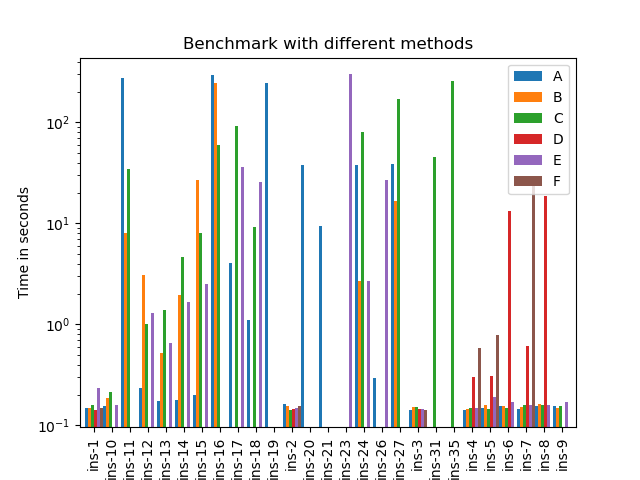
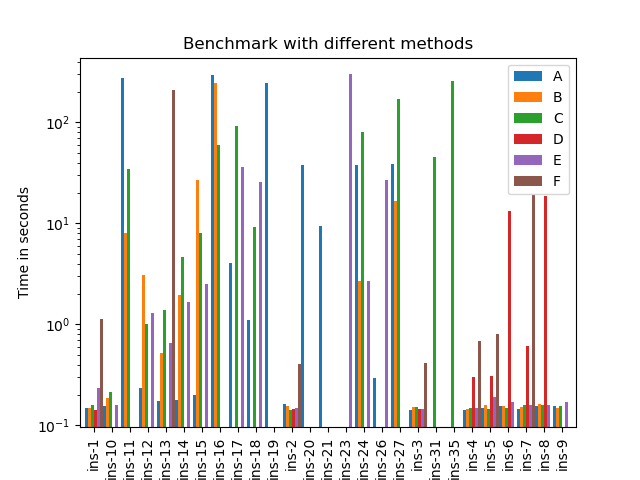
Adding bar chart concerning final model to the report

Changed region(s): [[0.25, 0.1875, 0.2812, 0.875], [0.1562, 0.6562, 0.1875, 0.8438], [0.6562, 0.75, 0.6875, 0.8438]]

diff --git a/utils/show_benchmarks.py b/utils/show_benchmarks.py
@@ -44,9 +44,10 @@ def show_histogram(df, title, x_label, y_label):
 
 
 def main():
-    column_names = ['final', 'dual', 'rotation']
-    directories = ["../CP/out/final_domWdeg_min_no_restart", "../CP/out/symmetries",
-                   "../CP/out/rotation_domWdeg_min_no_restart"]
+    column_names = ['A', 'B', 'C', 'D', 'E', 'F']
+    directories = ["../CP/out/final_domWdeg_min_no_restart", "../CP/out/final_domWdeg_random_linear",
+                   "../CP/out/final_domWdeg_random_luby", "../CP/out/final_domWdeg_random_no_restart",
+                   "../CP/out/final_first_fail_random_linear", "../CP/out/final_input_order_indomain_min_no_restart"]
     data = get_dataframe(directories, column_names)
     show_histogram(data, 'Benchmark with different methods', 'Instances', 'Time in seconds')
 
